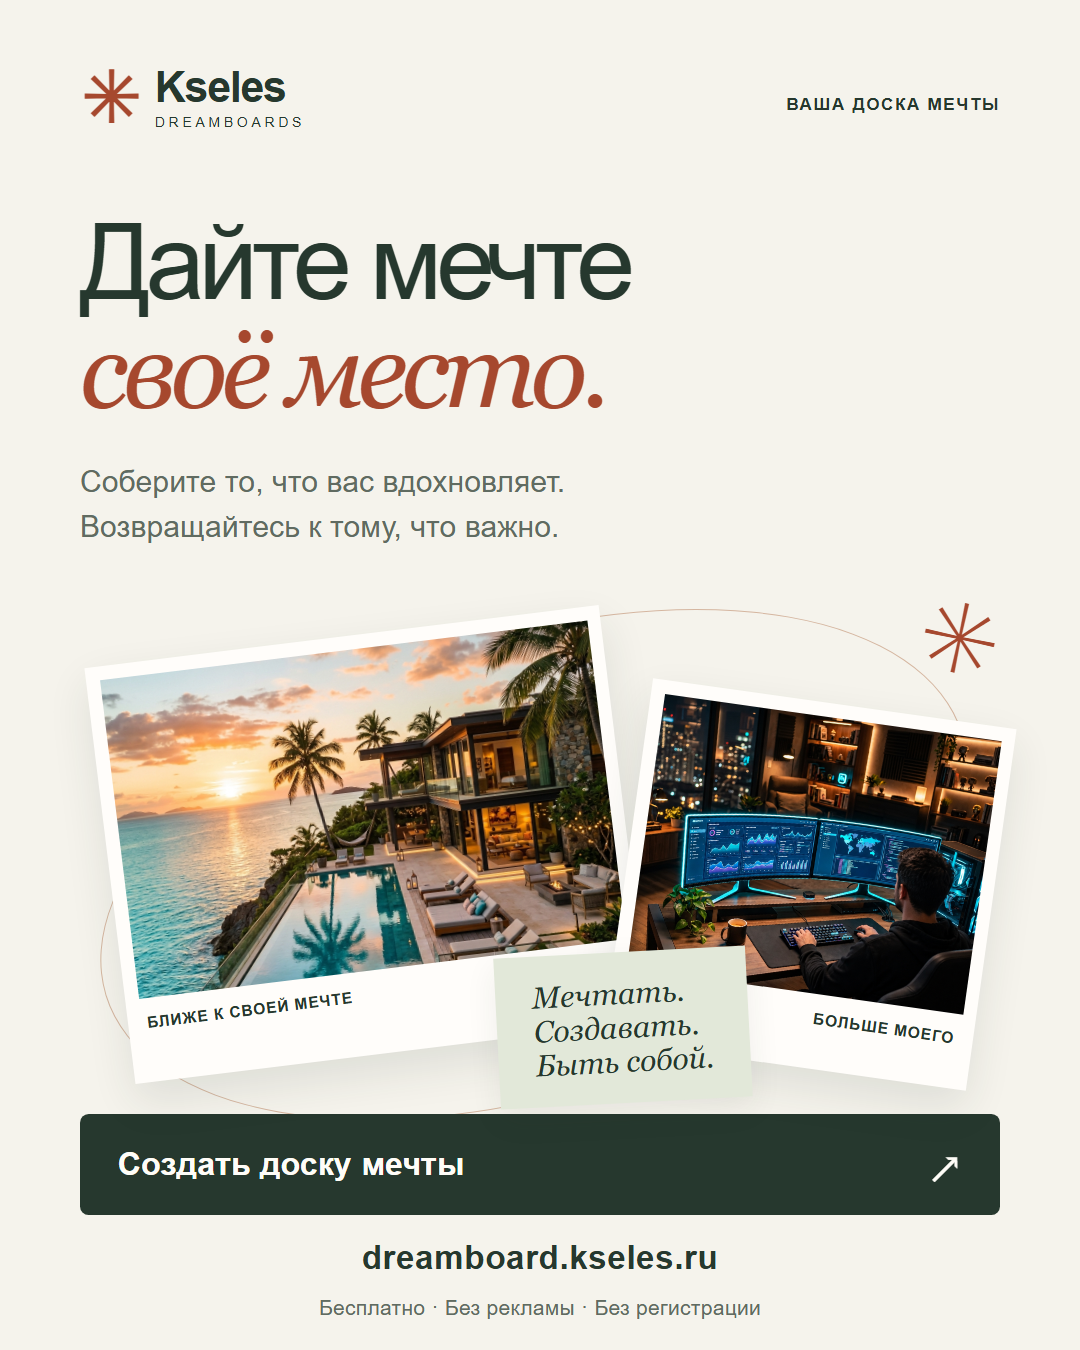
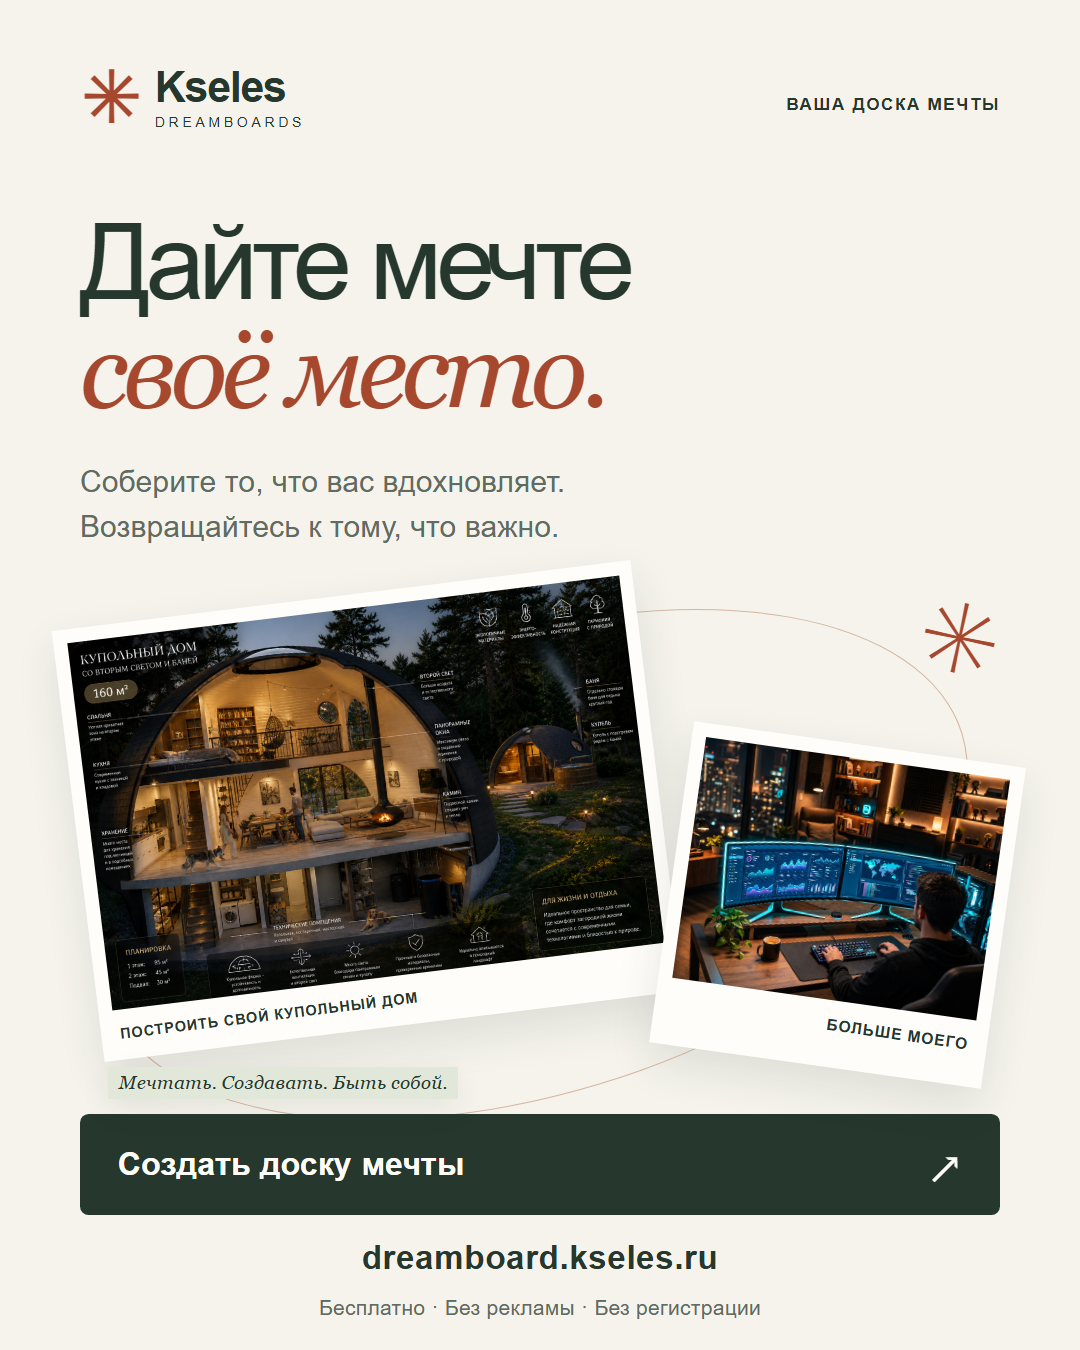
feat: add dome home dream and refresh landing artwork

Changed region(s): [[0.0611, 0.4044, 0.9472, 0.8089]]

diff --git a/welcome/index.html b/welcome/index.html
@@ -35,10 +35,10 @@
         <div class="hero-actions"><a class="button primary" href="../index.html">Создать доску мечты <span aria-hidden="true">↗</span></a><a class="text-link" href="#possibilities">Посмотреть поближе <span aria-hidden="true">↓</span></a></div>
         <p class="quiet-promise">Без подписки. Без рекламы. Без регистрации.</p>
       </div>
-      <div class="hero-art" aria-label="Пример коллажа: дом у океана, любимое дело и время для себя">
+      <div class="hero-art" aria-label="Пример коллажа: купольный дом и IT-стартап">
         <div class="orbit" aria-hidden="true"></div><span class="art-spark" aria-hidden="true">✳</span>
         <div class="art-caption">моя жизнь, которую я выбираю <span aria-hidden="true">↘</span></div>
-        <article class="photo-card ocean"><img src="../assets/images/dream_travel.png" width="1024" height="1024" alt="Вилла с бассейном у океана на закате" fetchpriority="high"><div><span class="card-kicker">МЕСТО СИЛЫ</span><h2>Ближе к океану.<br>Ближе к себе.</h2></div></article>
+        <article class="photo-card ocean"><img src="../assets/images/dream_dome.png" width="1536" height="1024" alt="Купольный дом с панорамными окнами среди деревьев" fetchpriority="high"><div><span class="card-kicker">МЕСТО СИЛЫ</span><h2>Построить свой<br>купольный дом.</h2></div></article>
         <article class="photo-card work"><img src="../assets/images/dream_career.png" width="1024" height="1024" alt="Уютное рабочее место с видом на вечерний город"><div><span class="card-kicker">МОЁ ДЕЛО</span><h2>Создавать то,<br>что люблю.</h2></div></article>
         <div class="note"><span aria-hidden="true">☀</span><p>Больше жизни.<br>Больше <em>моего.</em></p></div>
         <div class="art-label"><span class="tiny-dot"></span> Всё начинается с образа</div>
@@ -49,7 +49,7 @@
       <div class="section-heading"><div><p class="eyebrow">01 / СОБЕРИТЕ СВОЁ</p><h2>Мечта становится ближе,<br>когда её <em>видно.</em></h2></div><p>Путешествие, любимое дело, уютный дом или время для себя. Здесь есть место всему, что важно именно вам.</p></div>
       <div class="features"><article><span class="feature-icon" aria-hidden="true">⌕</span><h3>Найдите свой образ</h3><p>Ищите фотографии в приложении или добавляйте свои. Собирайте доску из того, что откликается.</p></article><article><span class="feature-icon" aria-hidden="true">▦</span><h3>Устройте всё по-своему</h3><p>Аккуратная сетка или свободный холст. Светлая «Бумага» или тёмный «Космос». Ваше настроение — ваш выбор.</p></article><article><span class="feature-icon" aria-hidden="true">↗</span><h3>Пусть мечта будет рядом</h3><p>Сохраните доску в PNG для экрана или распечатайте плакат А2. С ненавязчивой подписью Kseles-DreamBoards.</p></article></div>
       <div class="board-demo" data-theme="paper"><div class="demo-top"><span><span class="tiny-dot"></span> Моя жизнь, мои ориентиры</span><div class="theme-switch" role="group" aria-label="Тема примера доски"><button type="button" data-theme-choice="paper" aria-pressed="true">Бумага</button><button type="button" data-theme-choice="cosmos" aria-pressed="false">Космос</button></div></div>
-        <div class="demo-grid"><article class="demo-card"><img src="../assets/images/dream_travel.png" width="1024" height="1024" loading="lazy" alt="Дом у океана"><div><small>ПУТЕШЕСТВИЯ</small><h3>Просыпаться с видом на океан</h3><p>Однажды это будет моё обычное утро.</p></div></article><article class="demo-card"><img src="../assets/images/dream_career.png" width="1024" height="1024" loading="lazy" alt="Рабочее место для собственного проекта"><div><small>ЛЮБИМОЕ ДЕЛО</small><h3>Дать жизнь своей идее</h3><p>Первый маленький шаг уже имеет значение.</p></div></article><article class="demo-card quote-card"><span aria-hidden="true">✺</span><small>КАЧЕСТВО ЖИЗНИ</small><h3>Оставлять<br>время<br><em>для себя.</em></h3><p>Не когда-нибудь.<br>В этой жизни.</p></article></div>
+        <div class="demo-grid"><article class="demo-card"><img src="../assets/images/dream_dome.png" width="1536" height="1024" loading="lazy" alt="Купольный дом"><div><small>СВОЙ ДОМ</small><h3>Построить свой купольный дом</h3><p>Необычное, светлое и уютное пространство для всей семьи, в гармонии с природой</p></div></article><article class="demo-card"><img src="../assets/images/dream_career.png" width="1024" height="1024" loading="lazy" alt="Рабочее место для собственного проекта"><div><small>ЛЮБИМОЕ ДЕЛО</small><h3>Дать жизнь своей идее</h3><p>Первый маленький шаг уже имеет значение.</p></div></article><article class="demo-card quote-card"><span aria-hidden="true">✺</span><small>КАЧЕСТВО ЖИЗНИ</small><h3>Оставлять<br>время<br><em>для себя.</em></h3><p>Не когда-нибудь.<br>В этой жизни.</p></article></div>
         <p class="demo-caption">Пример оформления — ваша доска будет о вас.</p>
       </div>
     </section>

diff --git a/welcome/banner/index.html b/welcome/banner/index.html
@@ -23,7 +23,7 @@
     .spark{position:absolute;right:7%;top:42%;color:#a6482e;font-size:9cqw;font-weight:400;transform:rotate(12deg)}
     .cta{position:absolute;left:7.4%;right:7.4%;bottom:10%;height:7.5%;background:#26382e;color:#fffdf8;border-radius:.8cqw;display:flex;align-items:center;justify-content:space-between;padding:0 3.5cqw;font-size:3cqw;font-weight:600}
     .cta span{font-size:4.5cqw;font-weight:400}.address{position:absolute;bottom:5.4%;left:0;right:0;text-align:center;font-size:3.1cqw;font-weight:600;letter-spacing:.04cqw}.promise{position:absolute;bottom:2.2%;left:0;right:0;text-align:center;font-size:1.95cqw;color:#606b61;letter-spacing:.025cqw}
-  </style>
+  .ocean{width:54%;height:auto;left:7%;top:44%}.ocean img{height:auto;aspect-ratio:3/2;object-fit:contain}.ocean p{font-size:1.35cqw}.work{top:55%;right:7%;width:31%;height:24%}.note{left:10%;top:79%;padding:.5cqw 1cqw;font-size:1.8cqw;transform:none}</style>
 </head>
 <body>
   <a class="banner" href="https://dreamboard.kseles.ru/welcome/?utm_source=personal" aria-label="Kseles-DreamBoards. Создать доску мечты — перейти на страницу приложения">
@@ -32,9 +32,9 @@
     <h1>Дайте мечте<br><em>своё место.</em></h1>
     <p class="lead">Соберите то, что вас вдохновляет.<br>Возвращайтесь к тому, что важно.</p>
     <div class="orbit" aria-hidden="true"></div>
-    <div class="card ocean"><img src="../../assets/images/dream_travel.png" alt="Дом у океана на закате"><p>БЛИЖЕ К СВОЕЙ МЕЧТЕ</p></div>
+    <div class="card ocean"><img src="../../assets/images/dream_dome.png" alt="Купольный дом среди деревьев"><p>ПОСТРОИТЬ СВОЙ КУПОЛЬНЫЙ ДОМ</p></div>
     <div class="card work"><img src="../../assets/images/dream_career.png" alt="Любимое дело и уютное рабочее место"><p>БОЛЬШЕ МОЕГО</p></div>
-    <div class="note">Мечтать.<br>Создавать.<br>Быть собой.</div>
+    <div class="note">Мечтать. Создавать. Быть собой.</div>
     <div class="spark" aria-hidden="true">✳</div>
     <div class="cta">Создать доску мечты<span aria-hidden="true">↗</span></div>
     <div class="address">dreamboard.kseles.ru</div>

diff --git a/welcome/landing.css b/welcome/landing.css
@@ -13,3 +13,6 @@
 .about-page main { max-width: 840px; line-height: 1.65; } .about-page p { margin: 1em 0; } .about-page h1 { margin: .5em 0; } .about-page h2 { margin-bottom: .5em; } .about-page a { text-decoration: underline; text-underline-offset: 3px; } .about-page input { width: 20px; height: 20px; vertical-align: middle; }
 
 .photo-card.work img { object-position: right center; }
+
+/* Approved dome card: show the full landscape image. */
+.hero-art .art-caption{top:-5px}.hero-art .note{bottom:-50px}.photo-card.ocean{width:76%;height:auto;top:40px}.photo-card.ocean img{height:auto;aspect-ratio:3/2;object-fit:contain}.demo-card img[src$="dream_dome.png"]{height:auto;aspect-ratio:3/2;object-fit:contain}@media(max-width:700px){.photo-card.ocean{width:83%;left:1%;top:68px}.photo-card.ocean h2{font-size:21px}.photo-card.work{top:270px;width:44%;height:235px}.hero-art{height:570px}.hero-art .note{bottom:-15px}}@media(max-width:360px){.photo-card.work{top:248px}.hero-art{height:540px}}

diff --git a/performance-lite.test.js b/performance-lite.test.js
@@ -389,9 +389,9 @@ test('28. script order storage→backup→import→performance→trash→app и 
     assert.ok(fs.existsSync(path.join(__dirname, 'trash.js')));
 });
 
-test('29. CACHE_NAME строится runtime по scope (dreamboard-<scope>-v31)', () => {
-    assert.ok(/var CACHE_NAME = 'dreamboard-' \+ SCOPE_NAME \+ '-v31';/.test(SW_JS),
-        'CACHE_NAME изолирован по scope: dreamboard-<scope>-v31');
+test('29. CACHE_NAME строится runtime по scope (dreamboard-<scope>-v32)', () => {
+    assert.ok(/var CACHE_NAME = 'dreamboard-' \+ SCOPE_NAME \+ '-v32';/.test(SW_JS),
+        'CACHE_NAME изолирован по scope: dreamboard-<scope>-v32');
     assert.ok(!/const CACHE_NAME = 'dreamboard-v13'/.test(SW_JS), 'статический dreamboard-v13 CACHE_NAME отсутствует');
     assert.ok(!/const CACHE_NAME = 'dreamboard-v14'/.test(SW_JS), 'статический dreamboard-v14 CACHE_NAME отсутствует');
 });

diff --git a/backup-export.test.js b/backup-export.test.js
@@ -548,10 +548,10 @@ test('33. backup.js подключён до app.js', () => {
     assert.ok(iStorage < iBackup && iBackup < iApp, 'порядок: storage.js → backup.js → app.js');
 });
 
-test('34. backup.js присутствует в PRECACHE, CACHE_NAME scoped (dreamboard-<scope>-v31)', () => {
+test('34. backup.js присутствует в PRECACHE, CACHE_NAME scoped (dreamboard-<scope>-v32)', () => {
     const sw = fs.readFileSync(path.join(__dirname, 'service-worker.js'), 'utf8');
     assert.ok(sw.includes("'./backup.js'"), 'backup.js в PRECACHE_URLS');
-    assert.ok(sw.includes("var CACHE_NAME = 'dreamboard-' + SCOPE_NAME + '-v31';"), 'CACHE_NAME scoped по scope');
+    assert.ok(sw.includes("var CACHE_NAME = 'dreamboard-' + SCOPE_NAME + '-v32';"), 'CACHE_NAME scoped по scope');
 });
 
 // --- дополнительные проверки (раздел 9 ТЗ) ------------------------------------

diff --git a/app.js b/app.js
@@ -68,6 +68,17 @@ document.addEventListener('DOMContentLoaded', () => {
             ],
             status: 'active',
             canvasPos: { x: 2550, y: 2750, width: 320, height: 440 }
+        },
+        {
+            id: 'default-dome',
+            title: 'Построить свой купольный дом',
+            category: 'wealth',
+            year: 2027,
+            desc: 'Необычное, светлое и уютное пространство для всей семьи, в гармонии с природой',
+            imageUrl: 'assets/images/dream_dome.png',
+            milestones: [],
+            status: 'active',
+            canvasPos: { x: 2950, y: 2800, width: 360, height: 420 }
         }
     ];
 

diff --git a/service-worker.js b/service-worker.js
@@ -20,7 +20,7 @@ var SCOPE_NAME = (function () {
     return normalizeScopeName(location.pathname.replace(/[^/]*$/, ''));
 })();
 
-var CACHE_NAME = 'dreamboard-' + SCOPE_NAME + '-v31';
+var CACHE_NAME = 'dreamboard-' + SCOPE_NAME + '-v32';
 // Photo data survives application upgrades; production and preview stay isolated.
 var PHOTO_CACHE_NAME = 'dreamboard-' + SCOPE_NAME + '-photos-v1';
 
@@ -61,6 +61,7 @@ const PRECACHE_URLS = [
     './assets/icons/icon-512.png',
     './assets/images/dream_career.png',
     './assets/images/dream_travel.png',
+    './assets/images/dream_dome.png',
     './assets/images/cover-career.svg',
     './assets/images/cover-wealth.svg',
     './assets/images/cover-health.svg',

diff --git a/image-library.test.js b/image-library.test.js
@@ -29,8 +29,8 @@ test('category prioritizes suggestions without hiding other matches', () => {
     assert.ok(library.search('работа', 'local', 'travel').length > 0);
 });
 test('online collection is explicit, stable and has no fake search addresses', () => {
-    assert.equal(library.search('', 'all').length, 32);
-    assert.equal(new Set(library.items.map(item => item.url)).size, 32);
+    assert.equal(library.search('', 'all').length, 33);
+    assert.equal(new Set(library.items.map(item => item.url)).size, 33);
     for (const item of library.items.filter(item => !item.local)) {
         assert.match(item.url, /^https:\/\/images\.unsplash\.com\/photo-/);
     }

diff --git a/appearance.css b/appearance.css
@@ -184,3 +184,6 @@ html[data-theme="paper"] .manifest-overlay .icon-btn { color: #f3f1f8; }
 .png-export-actions .btn { min-height:44px; text-decoration:none; }
 #png-export-dialog .btn.primary { background:var(--view-accent-fill); color:var(--text-primary); box-shadow:none; border:1px solid var(--view-border); }
 #png-export-dialog [hidden] { display:none; }
+
+/* Preserve the complete dome illustration in cards and the library. */
+.card-image[src$="/dream_dome.png"], .image-library-item img[src$="/dream_dome.png"] { object-fit: contain; }

diff --git a/auth.test.js b/auth.test.js
@@ -112,7 +112,7 @@ test('10. Stage 7B resources are all precached under scoped v15 cache', () => {
         assert.ok(SW.includes("'./" + file + "'"), file + ' is precached');
         assert.ok(fs.existsSync(path.join(__dirname, file)), file + ' exists');
     }
-    assert.match(SW, /CACHE_NAME = 'dreamboard-' \+ SCOPE_NAME \+ '-v31'/);
+    assert.match(SW, /CACHE_NAME = 'dreamboard-' \+ SCOPE_NAME \+ '-v32'/);
 });
 
 test('11. Turnstile loads only through the fixed official endpoint and writes token via callback', async () => {

diff --git a/image-library.js b/image-library.js
@@ -2,6 +2,13 @@
 (function (root) {
     'use strict';
     const items = [
+{
+  "url": "assets/images/dream_dome.png",
+  "title": "Построить свой купольный дом",
+  "category": "wealth",
+  "tags": "дом купол купольный строительство построить семья природа пространство dome home house",
+  "local": true
+},
   {
     "url": "assets/images/cover-career.svg",
     "title": "Новые горизонты",
